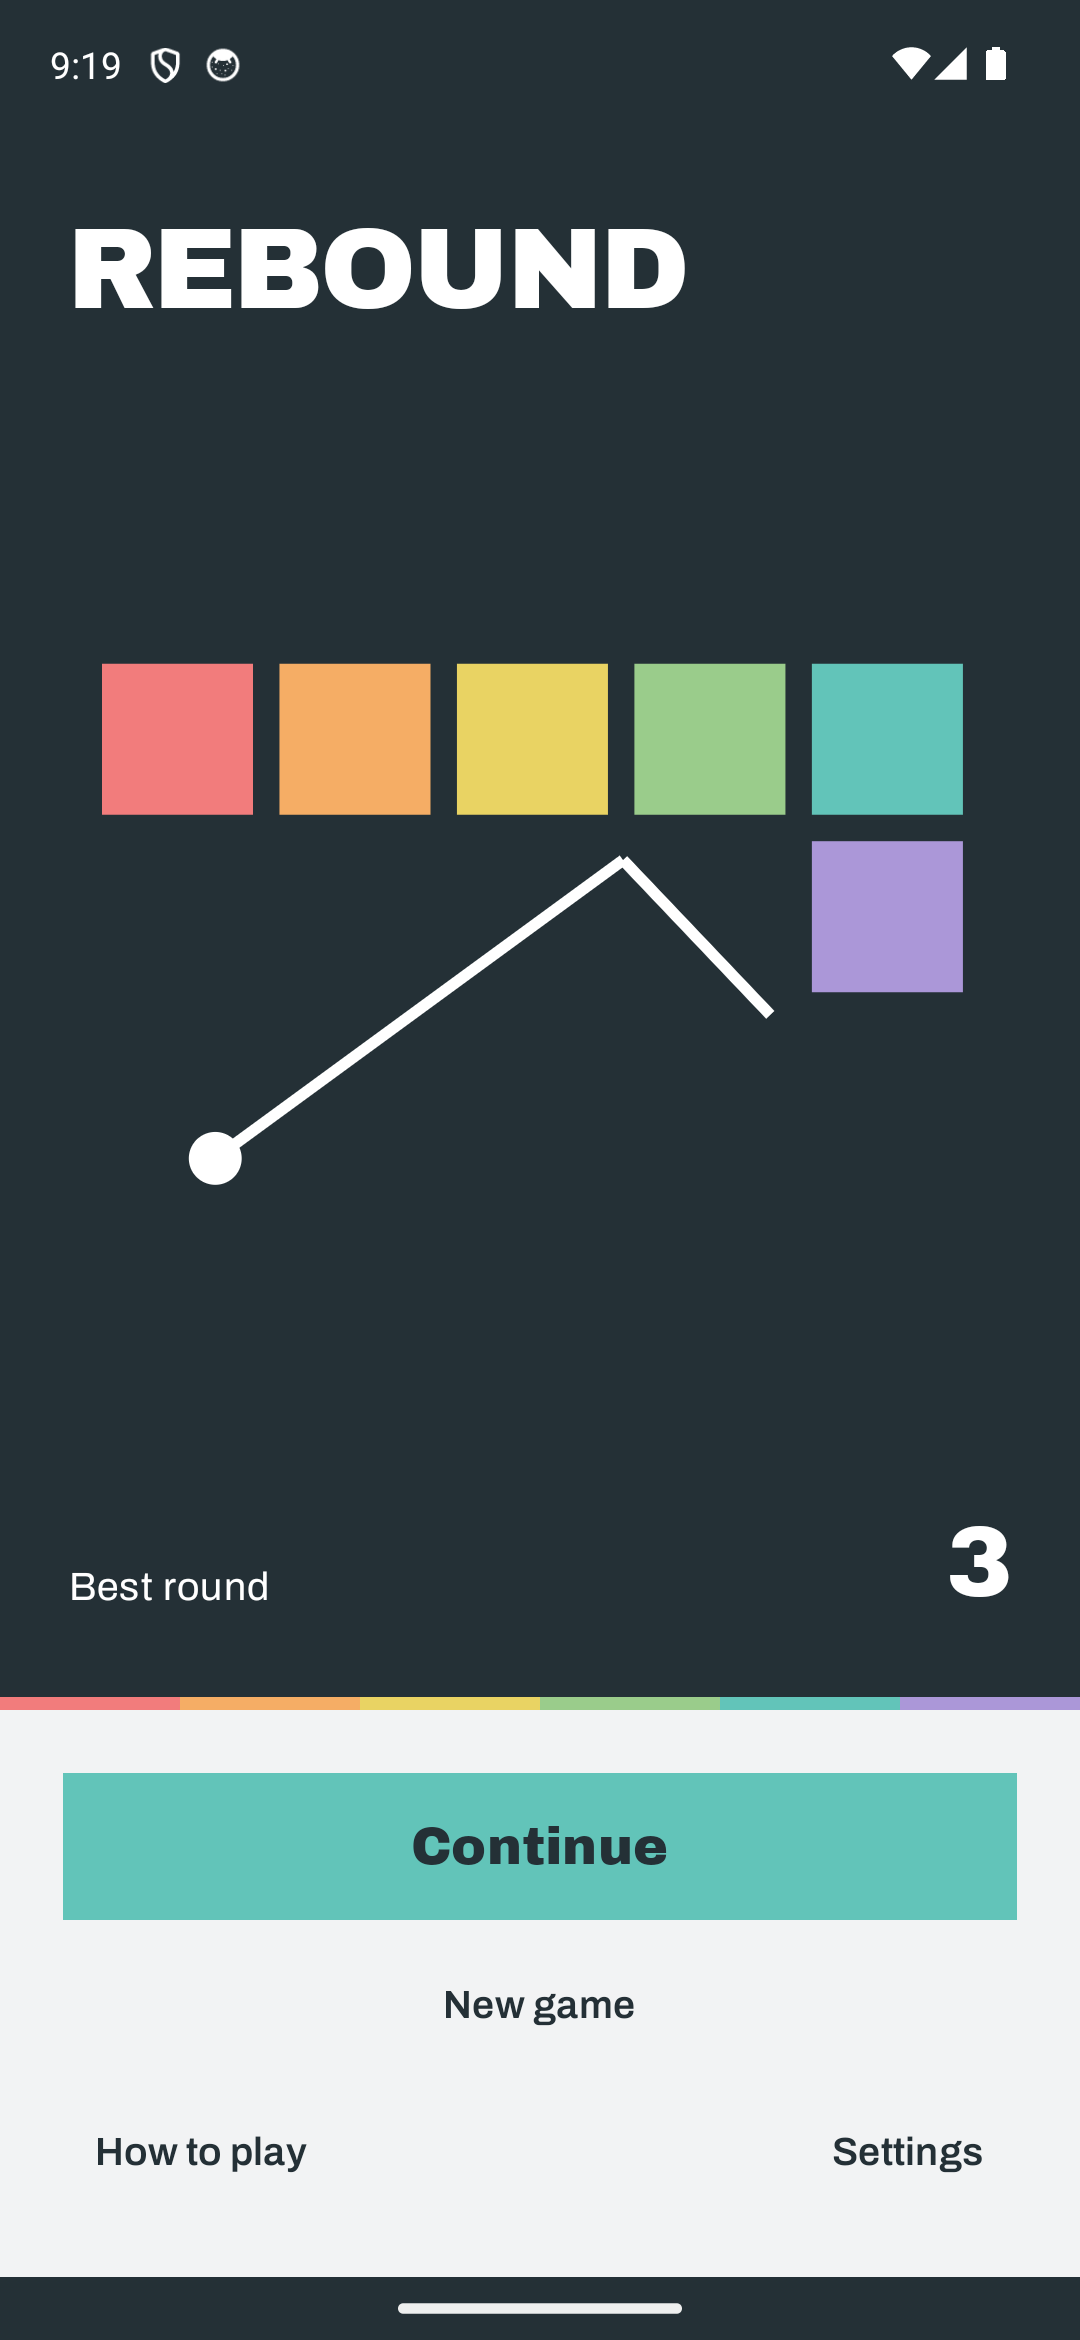
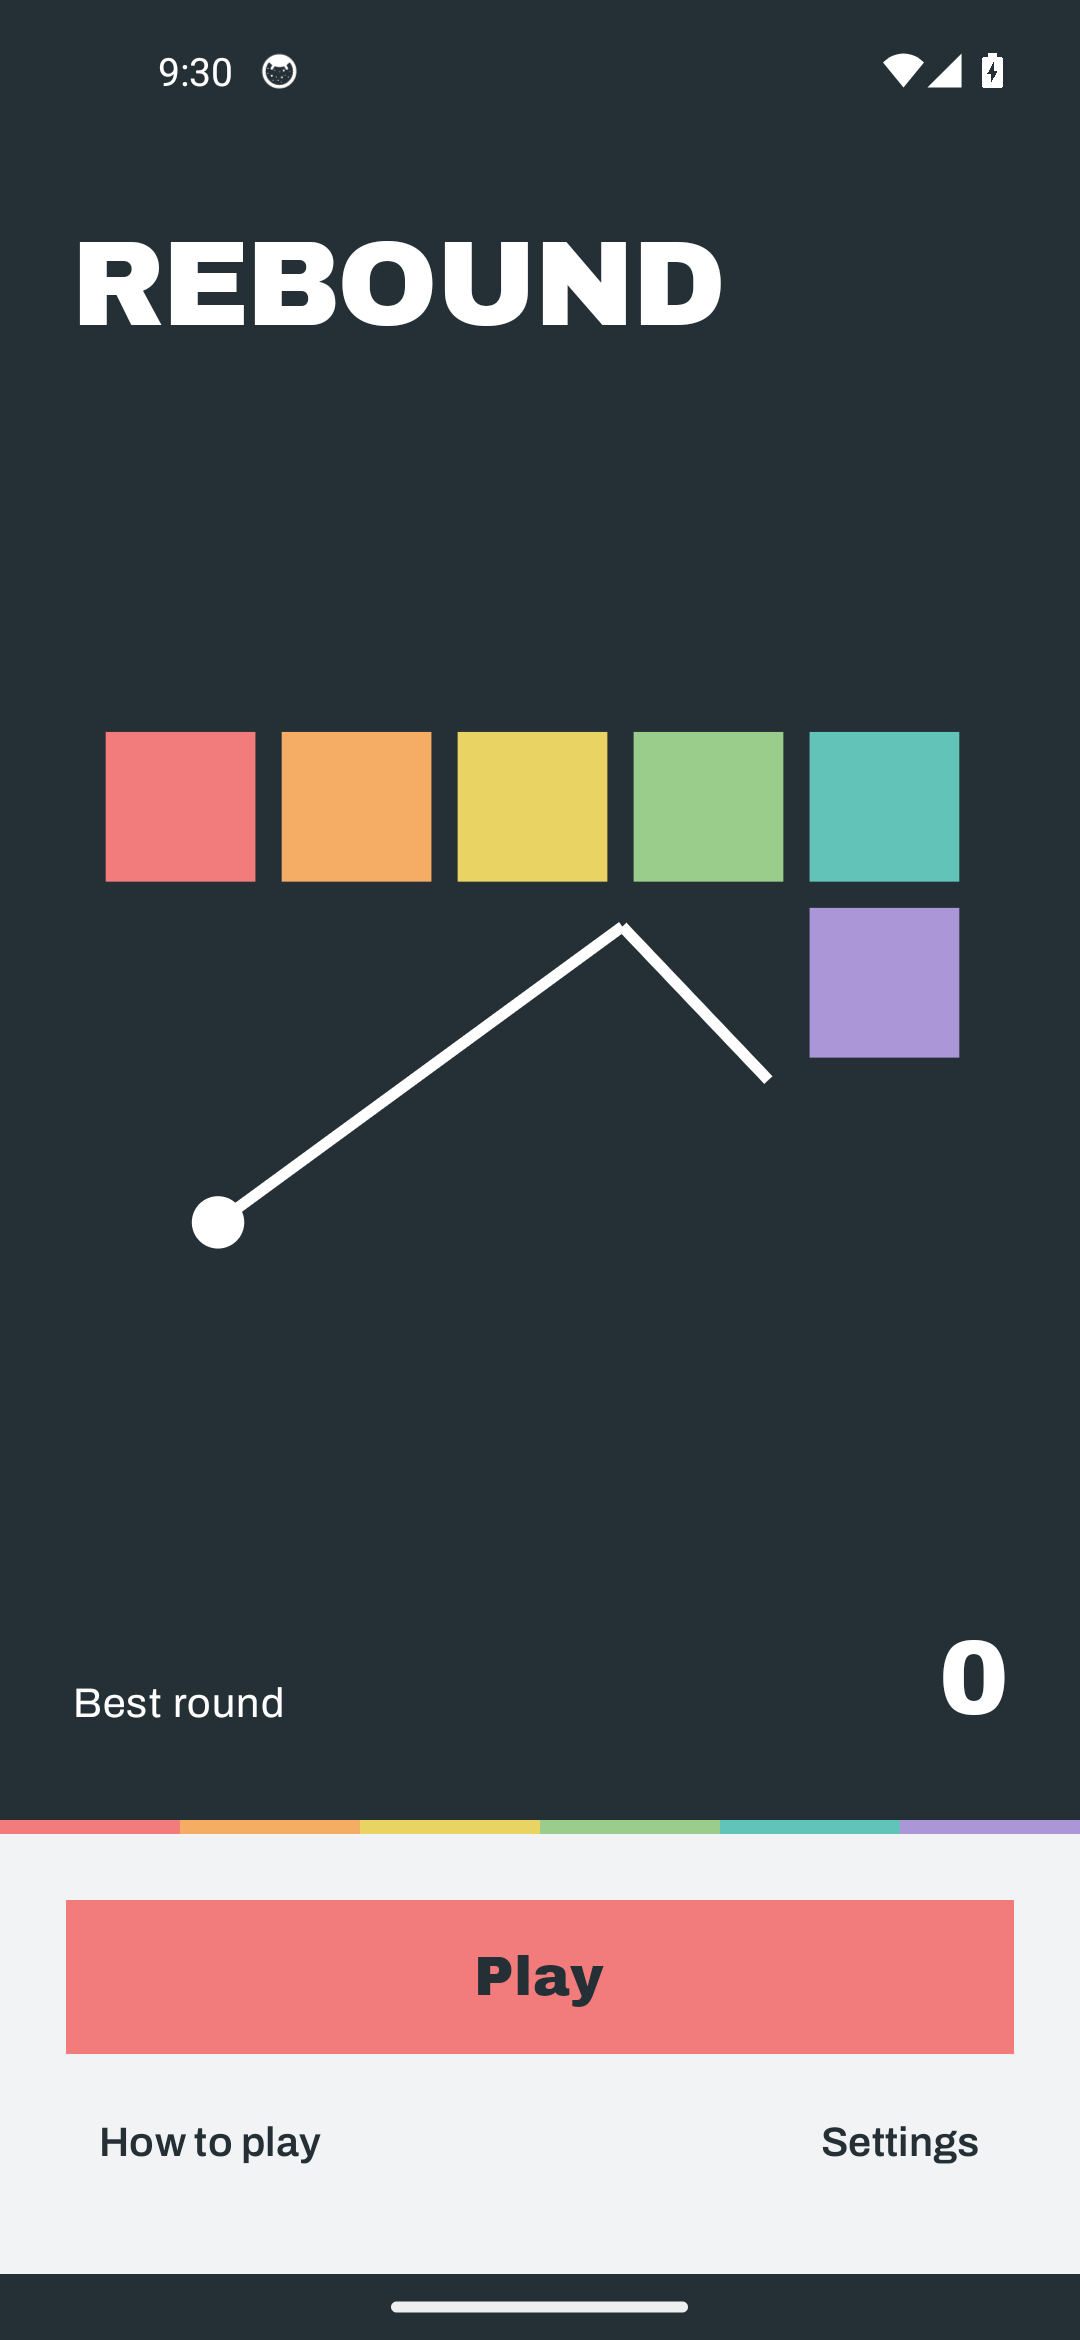
Record final signed APK verification on isolated Android device

diff --git a/VALIDATION.md b/VALIDATION.md
@@ -37,6 +37,8 @@ The non-debug `com.nicgames.rebound` release was installed on the emulator and e
 
 APK package inspection confirms version 1.0.0, minimum API 26, target API 35, no debuggable flag, and **no Internet permission**. Signature verification uses the Android SDK's APK verifier. The only requested platform permission is vibration; AndroidX also declares its package-scoped non-exported-receiver signature permission.
 
+Final downloadable APK: **1,001,196 bytes**, SHA-256 **63572ac2a2b6c2cdcad1f3464feca1048fc67671ee9f6c61c4a9c9d1a8b6156d**. All six black-box checks passed again on a separate ReboundTest Android 14/API 34 emulator. A prior check was interrupted by another project's test taking the foreground on a shared emulator; the smoke helper now explicitly detects this condition. Independent first-boot Android services also delayed one attempt; the completed run passed without changing gameplay code.
+
 Screenshots under [screenshots](screenshots) are actual Android renders. The home/paused/result/all-color board examples use deterministic test fixtures; release-prefixed captures come from black-box release play. Images were inspected for clipping, hierarchy, and readable numbers.
 
 ## Fixed during review
